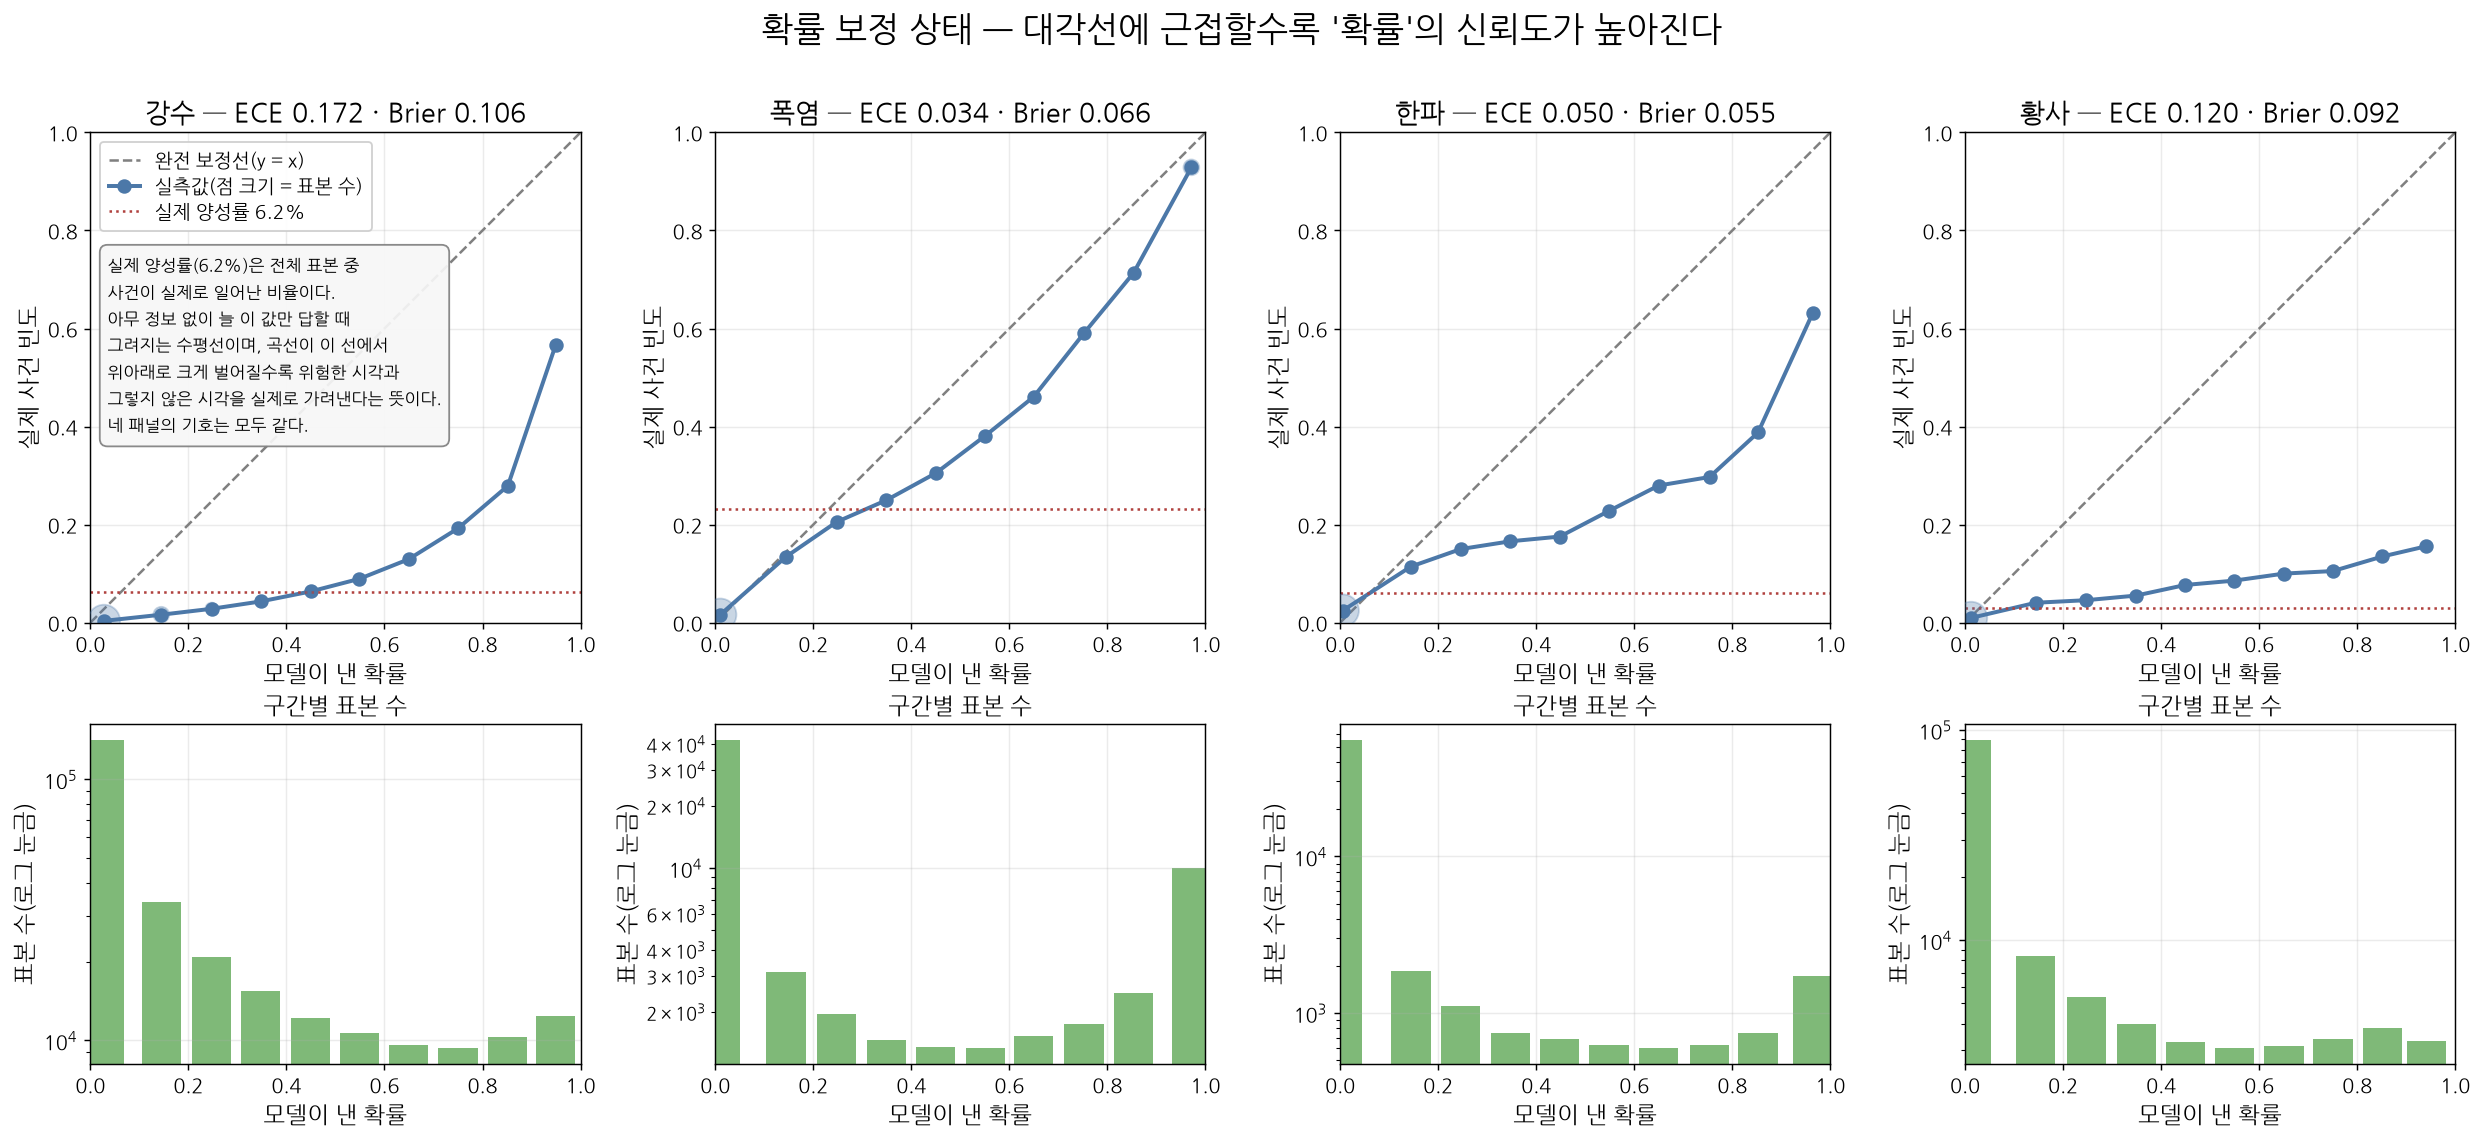
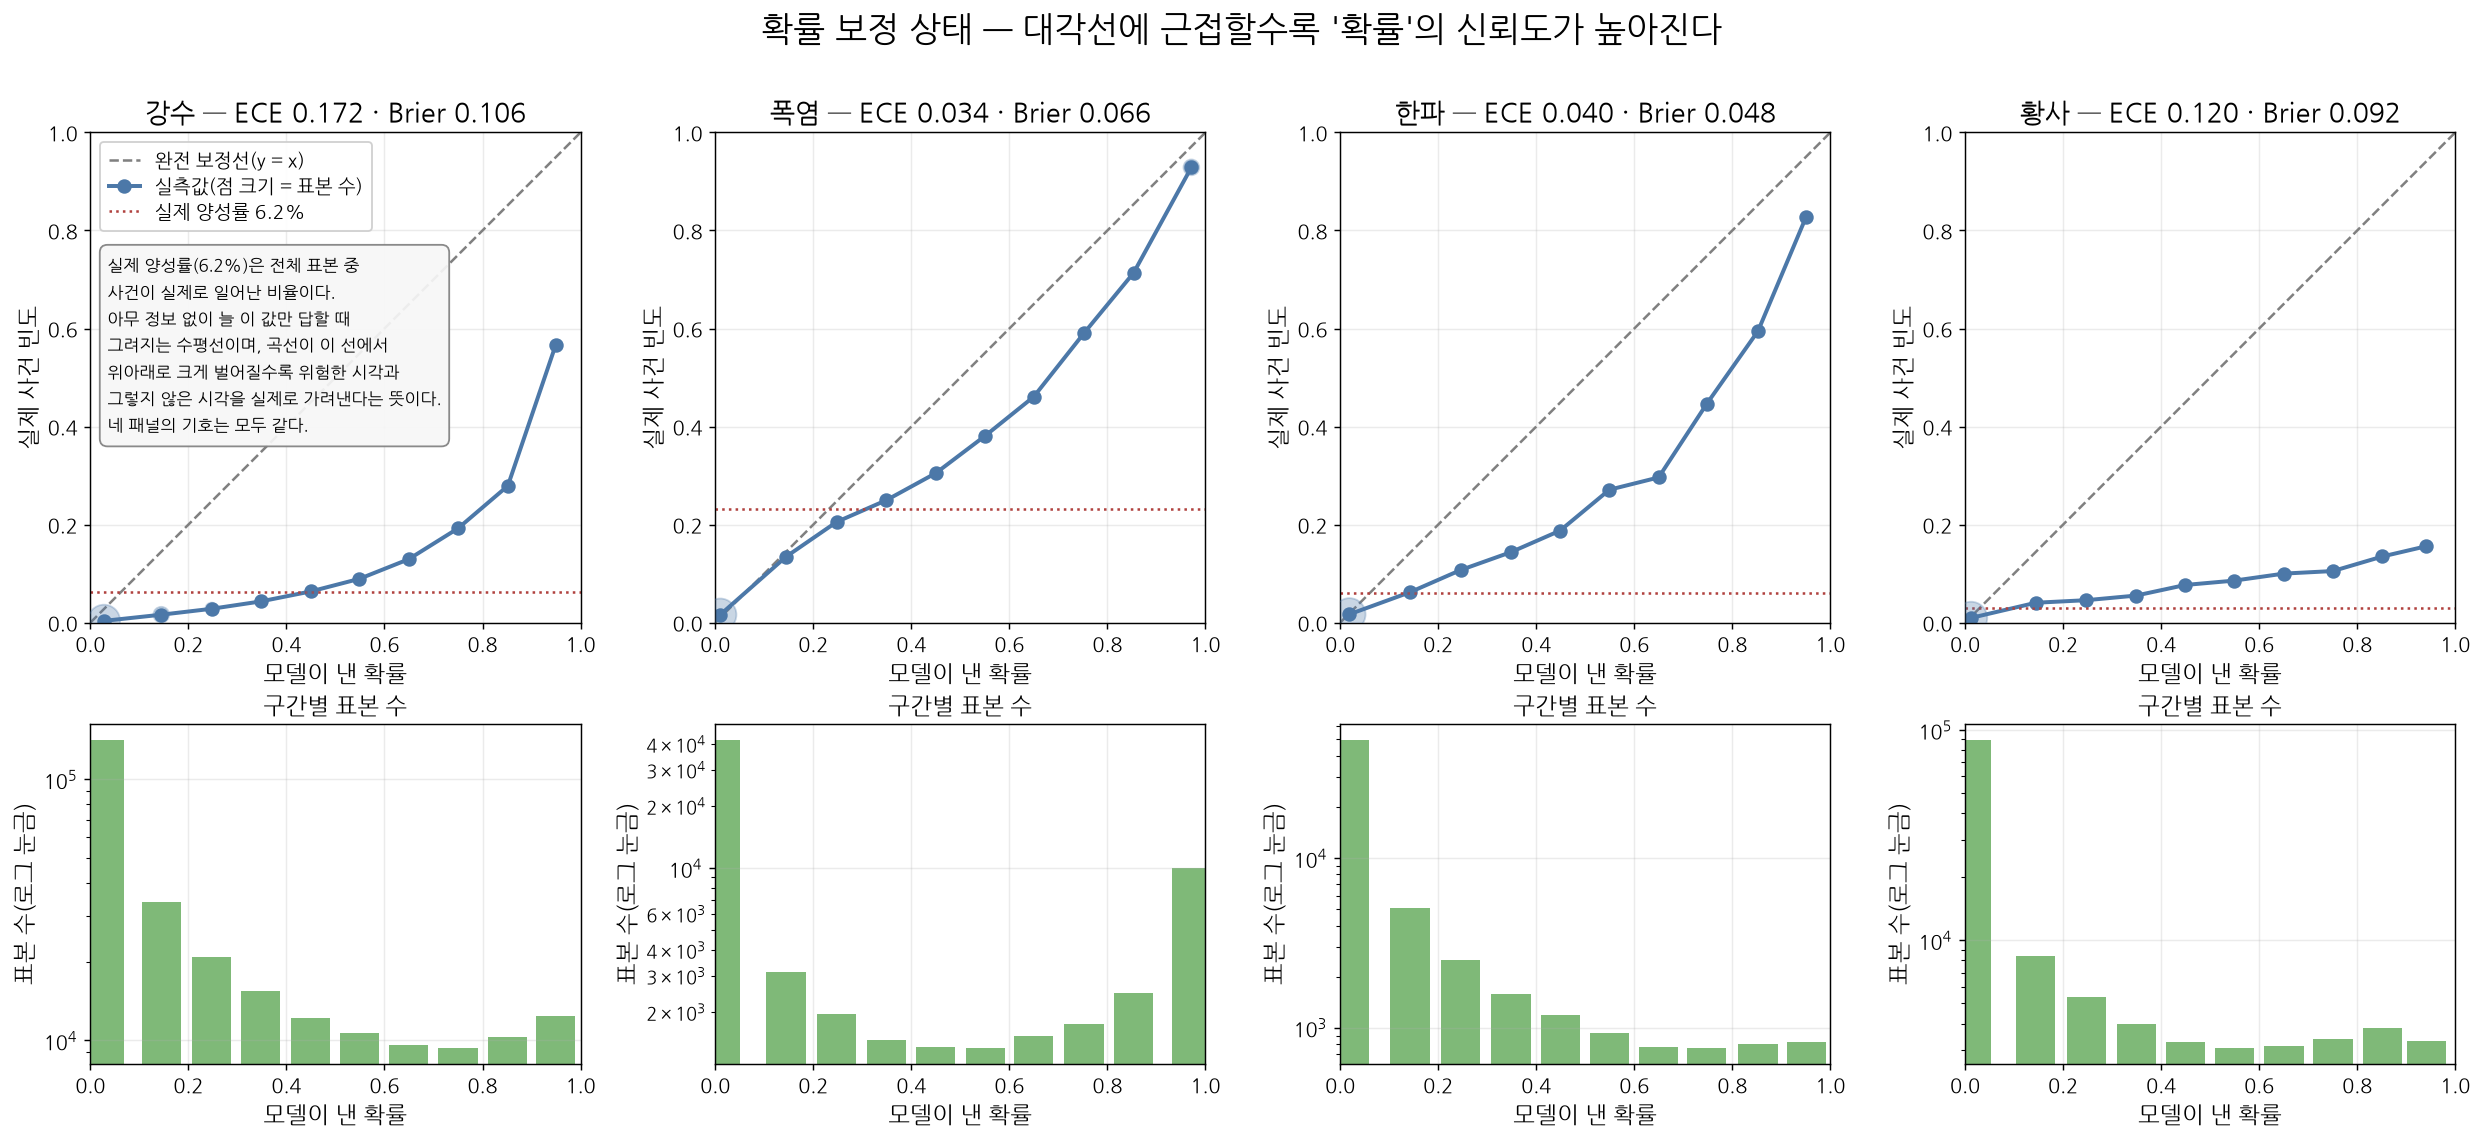
한파 헤드 중첩 전이학습 승격 — 보정용/평가용 분할로 정지 시점 검증(F1 0.458→0.4987)
calib/eval-split(head_decouple_finetune.py --calib-eval-split)로 조기종료 에폭
선택을 비순환적으로 검증(두 독립 실행 모두 에폭 3, 평가용 F1 0.501/0.503).
승격 게이트 3종 전부 통과해 promote_checkpoint.py로 승격, 확률 보정 재적합.
README·app.py 수치를 새 체크포인트 기준으로 갱신.

Claude-Session: https://claude.ai/code/session_01Ns2exaniH8NC9pf8atNHJN

diff --git a/head_decouple_finetune.py b/head_decouple_finetune.py
@@ -84,6 +84,28 @@ def masked_bce(logit, target, mask, pos_weight=None):
     return (raw * mask).sum() / mask.sum().clamp_min(1)
 
 
+# probability_calibration_fit.py 와 같은 값 — 같은 재분할 관례를 따른다.
+CALIB_SEED = 1234
+
+
+def split_calib_eval(idx, seed=CALIB_SEED, calib_frac=0.5):
+    """idx 를 보정용/평가용으로 무작위 절반씩 나눈다(2026-08-19 추가).
+
+    왜 필요한가 — 중첩 전이학습 재실행(README '재시도 결과' 절)에서 F1이
+    초반 몇 에폭에 치솟았다가 가라앉는 곡선이 나왔다. "어느 에폭에서 멈출까"
+    를 그 곡선 자체로 고르면, 확률 임계값을 검증셋 전체로 고르고 그 검증셋
+    으로 다시 채점하던 것과 같은 순환 논리가 된다(CLAUDE.md 2절이 이미 금지
+    하는 패턴). 이 함수는 val_idx 를 한 번만 갈라, 정지 에폭은 보정용 곡선
+    으로 고르고 그 성능은 한 번도 안 본 평가용에서만 잰다.
+    """
+    rng = np.random.RandomState(seed)
+    idx = list(idx)
+    is_calib = rng.rand(len(idx)) < calib_frac
+    calib = [i for i, m in zip(idx, is_calib) if m]
+    ev = [i for i, m in zip(idx, is_calib) if not m]
+    return calib, ev
+
+
 def evaluate(model, ds, idx, device):
     model.eval()
     temp_abs, precip_abs = [], []
@@ -140,6 +162,10 @@ def main():
     # 실행자가 어느 쪽에 의존하는지 헷갈릴 필요가 없게 한다.
     ap.add_argument("ckpt", nargs="?", default=CHECKPOINT,
                     help="기반 체크포인트 경로(생략 시 CHECKPOINT_PATH 환경변수 또는 배포 경로)")
+    ap.add_argument("--calib-eval-split", action="store_true",
+                    help="검증셋을 보정용/평가용으로 나눠 에폭마다 두 F1을 함께 찍는다. "
+                         "정지 에폭을 보정용 곡선으로 고르고 평가용에서 순이득을 확인할 때 "
+                         "쓴다 — 같은 곡선으로 고르고 채점하는 순환 논리를 피한다.")
     args = ap.parse_args()
     heads = [h.strip() for h in args.heads.split(",") if h.strip()]
     for h in heads:
@@ -175,6 +201,11 @@ def main():
     train_ds, val_ds = make_split(ds, ckpt.get("split_mode", "random"), verbose=True)
     train_idx = list(train_ds.indices)
     val_idx = list(val_ds.indices)
+    calib_idx = eval_idx = None
+    if args.calib_eval_split:
+        calib_idx, eval_idx = split_calib_eval(val_idx)
+        print(f"보정용/평가용 분할 — 보정 {len(calib_idx):,}개 / 평가 {len(eval_idx):,}개 "
+              f"(seed={CALIB_SEED})")
 
     n_tunable = freeze_trunk(model, heads)
     print(f"헤드만 미세조정 — 학습 가능 파라미터 {n_tunable:,}개 "
@@ -258,6 +289,14 @@ def main():
         hf = m["heatwave"]["f1"]; cf = m["coldwave"]["f1"]; df = m["dust"]["f1"]
         print(f"{epoch:4d} | {total_loss/n_batches:8.4f} | {temp_mae:8.4f} | "
               f"{precip_mae:8.4f} | {hf:7.3f} | {cf:7.3f} | {df:7.3f}")
+
+        if args.calib_eval_split:
+            # 정지 에폭은 이 보정용 F1 곡선만 보고 고를 것 — 아래 평가용 F1은
+            # 그 결정이 끝난 뒤에만 들여다본다(순환 논리 방지).
+            _, _, m_c = evaluate(model, ds, calib_idx, DEVICE)
+            _, _, m_e = evaluate(model, ds, eval_idx, DEVICE)
+            print(f"       보정용 한파F1={m_c['coldwave']['f1']:.3f}  "
+                  f"평가용 한파F1={m_e['coldwave']['f1']:.3f}")
 
         # 선택 기준 — 미세조정 대상 헤드들의 F1(또는 강수 MAE)만 평균해
         # 고른다. 안 건드리는 헤드는 어차피 상수라 기준에 넣어도 무의미하다.

diff --git a/app.py b/app.py
@@ -39,9 +39,11 @@ import accuracy
 
 # +12h 2차 산출값(2026-08-18) — 기온·강수 성능 저하 곡선을 실측한 결과,
 # +6h 대비 절대오차 악화가 완만해(기온 1.30→1.66°C) 병행 제공 가치가
-# 있다고 판단해 채택했다(한파 F1은 0.458→0.453으로 사실상 그대로).
+# 있다고 판단해 채택했다(채택 당시 한파 F1은 0.458→0.453으로 사실상 그대로).
 # 계절 오탐이 배포본(0.06%)보다 높게 나왔으나(5.41%, FAIL 기준 10% 미만)
 # WARN 상태로 채택하기로 결정했다 — 판단 근거를 README에 남긴다.
+# +6h 는 이후(2026-08-19) 중첩 전이학습 승격으로 한파 F1 0.499 로 올랐으나
+# +12h 는 아직 이전 세대 헤드 그대로다(F1 0.453) — README '#nested-transfer-promotion' 참고.
 CHECKPOINT_12H = "./checkpoints/numerical_trichef_12h.pt"
 
 # ASOS 타임스탬프는 tz 정보 없는 KST 벽시계 표기다. 컨테이너 기본 시간대는
